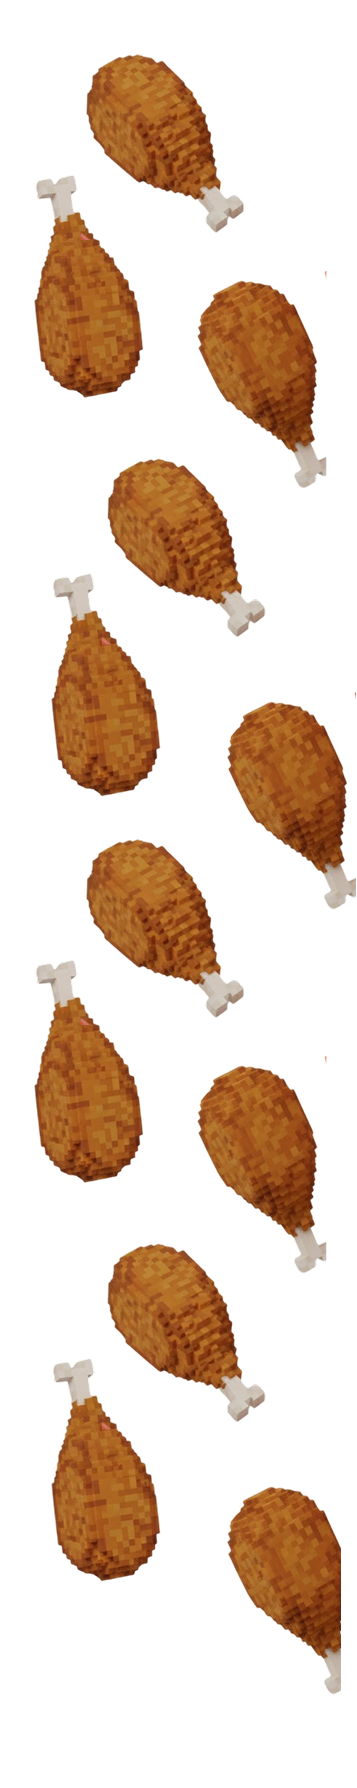
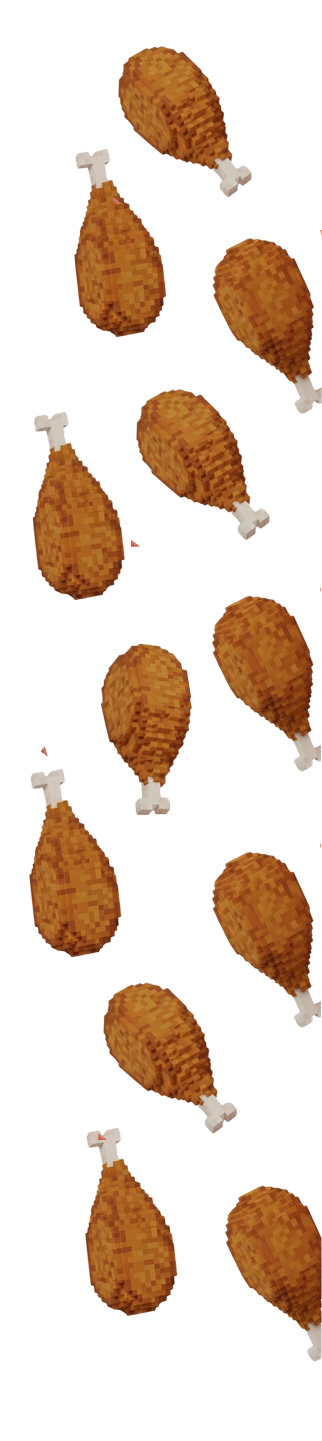
aggiunta pollo sfondo desktop

Changed region(s): [[0.0932, 0.0312, 1.0, 0.7183], [0.1242, 0.6558, 1.0, 0.9681], [0.0932, 0.5309, 0.4037, 0.687]]

diff --git a/menu/descrizione-piatto-2.html b/menu/descrizione-piatto-2.html
@@ -76,6 +76,8 @@
 
     <div class="container-fluid text-center redstone-background g-0">
         <div class="row py-5 g-0">
+            <img id="decoration-chicken-right" src="../img/body/piattosingolo2/sfondo-pollo1.png" class="d-none d-lg-block"
+            alt="decorazione sfondo pollo">
             <div class="col-12 pb-5 d-flex justify-content-center">
                 <h2>Il tuo Craft</h2>
             </div>
@@ -140,6 +142,8 @@
 
     <div class="container-fluid text-center first-background g-0">
         <div class="row py-5 g-0">
+            <img id="decoration-chicken-left" src="../img/body/piattosingolo2/sfondo-pollo2.png" class="d-none d-lg-block"
+            alt="decorazione sfondo pollo">
             <div class="col-12 pb-5 d-flex justify-content-center">
                 <h2>Ingredienti</h2>
             </div>

diff --git a/menu/descrizione-piatto-1.html b/menu/descrizione-piatto-1.html
@@ -99,6 +99,7 @@
             <div class="col-12 pb-5 d-flex justify-content-center ">
                 <h2>Il tuo Craft</h2>
             </div>
+            
             <div class="col-8 col-lg-9 d-flex flex-column flex-lg-row justify-content-between mx-auto container-craft">
                 <div class="burger-card flex-grow-1">
                     <img src="../img/body/piattosingolo1/smallcraft.png" alt="smallcraft">

diff --git a/css/piattosingolo1.css b/css/piattosingolo1.css
@@ -203,6 +203,20 @@
     top: 170%;
 }
 
+#decoration-chicken-right {
+    position: absolute;
+    width: 15%;
+    left: 85%;
+    top: 0%;
+}
+
+#decoration-chicken-left {
+    position: absolute;
+    width: 15%;
+    right: 85%;
+    top: 200%;
+}
+
 /* --- RESPONSIVE DESKTOP (Da 992px in su) --- */
 @media (min-width: 1920px) {
     .allergens-card {
